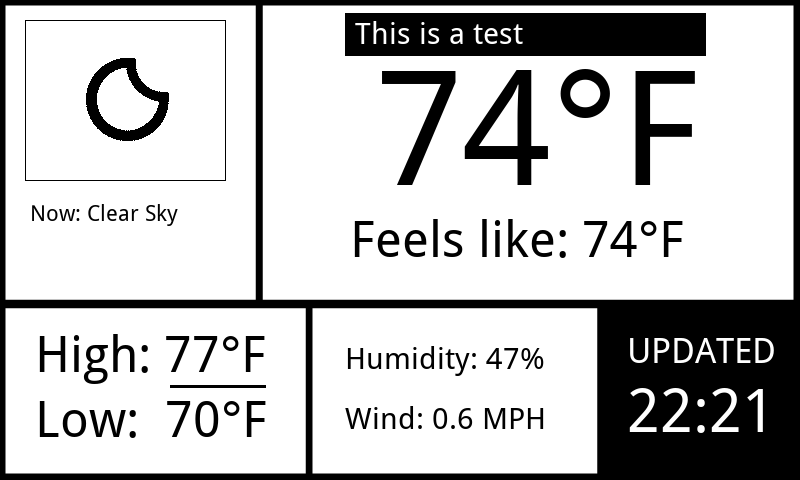
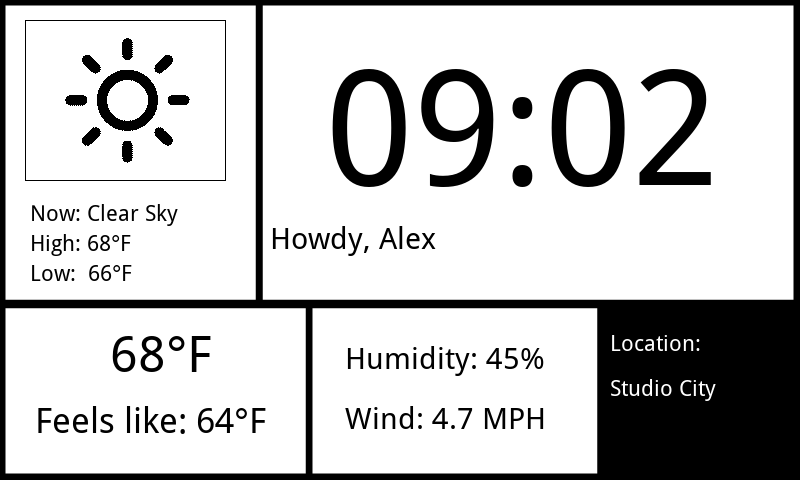
updated look, added specific functionality

diff --git a/server/main.py b/server/main.py
@@ -6,16 +6,22 @@ from server import MyServer
 import time
 import threading
 import os
+import pygame
 from datetime import datetime
 from MyWeather import MyWeather
 from PIL import Image, ImageDraw, ImageFont
 
-newOutput = False
 output = ""
 myServer = MyServer(sys.argv[1], sys.argv[2])
 
 def applicationStart():
+    pygame.init()
+    #screen = pygame.display.set_mode((0, 0),pygame.FULLSCREEN)
+    screen = pygame.display.set_mode((800, 480))
     apiweather = MyWeather()
+    pasttime = datetime.now().strftime("%H:%M")
+    string_current_time = datetime.now().strftime("%H:%M")
+    first = True
 
     picdir = os.path.join(os.path.dirname(os.path.realpath(__file__)), 'pic')
     icondir = os.path.join(picdir, 'icon')
@@ -36,11 +42,15 @@ def applicationStart():
 
     while(True):
         error_connect = True
-        while error_connect:
+        while error_connect == True:
             try:
-                print('Attempting to connect to OWM.')
-                response = apiweather.getWeatherData()
-                print('Connection to OWM successful.')
+                if(pasttime != string_current_time or first == True):
+                    print('Attempting to connect to OWM.')
+                    response = apiweather.getWeatherData()
+                    print('Connection to OWM successful.')
+                    pasttime = string_current_time
+                    first = False
+                    print(response.json())
                 error_connect = False
             except:
                 print('Connection error.')
@@ -49,10 +59,8 @@ def applicationStart():
         error = None
         while error == None:
             if response.status_code == 200:
-                print('Connection to Open Weather successful.')
                 # get data in json format
                 data = response.json()
-                print(data)
                 
                 # get current dict block
                 current = data['main']
@@ -73,7 +81,7 @@ def applicationStart():
                 temp_min = current['temp_min']
                     
                 #TODO add location based from api response
-                string_location = "CITY"
+                string_location_city = data['name']
                 string_temp_current = format(current_temp, '.0f') + u'\N{DEGREE SIGN}F'
                 string_feels_like = 'Feels like: ' + format(feels_like, '.0f') +  u'\N{DEGREE SIGN}F'
                 string_humidity = 'Humidity: ' + str(humidity) + '%'
@@ -81,7 +89,7 @@ def applicationStart():
                 string_report = 'Now: ' + report.title()
                 string_temp_max = 'High: ' + format(temp_max, '>.0f') + u'\N{DEGREE SIGN}F'
                 string_temp_min = 'Low:  ' + format(temp_min, '>.0f') + u'\N{DEGREE SIGN}F'
-
+                string_current_time = datetime.now().strftime("%H:%M")
                 error = False
             else:
                 print(response)
@@ -102,55 +110,38 @@ def applicationStart():
         draw.rectangle((25, 20, 225, 180), outline=black)
         ## Draw text
         draw.text((30, 200), string_report, font=font22, fill=black)
+        draw.text((30, 230), string_temp_max, font=font22, fill=black)
+        draw.text((30, 260), string_temp_min, font=font22, fill=black)
         # Draw top right box
-        draw.text((375, 35), string_temp_current, font=font160, fill=black)
-        draw.text((350, 210), string_feels_like, font=font50, fill=black)
+        global output
+        draw.text((325, 35), string_current_time, font=font160, fill=black)
+        draw.text((270, 220), output, font=font30, fill=black)
         # Draw bottom left box
-        draw.text((35, 325), string_temp_max, font=font50, fill=black)
-        draw.rectangle((170, 385, 265, 387), fill=black)
-        draw.text((35, 390), string_temp_min, font=font50, fill=black)
+        draw.text((110, 325), string_temp_current, font=font50, fill=black)
+        draw.text((35, 400), string_feels_like, font=font35, fill=black)
         # Draw bottom middle box
         draw.text((345, 340), string_humidity, font=font30, fill=black)
         draw.text((345, 400), string_wind, font=font30, fill=black)
         # Draw bottom right box
-        draw.text((627, 330), 'UPDATED', font=font35, fill=white)
-        current_time = datetime.now().strftime('%H:%M')
-        draw.text((627, 375), current_time, font = font60, fill=white)
-
-        ## Add Message
-        global output
-        global newOutput
-        global myServer
-
-        if(newOutput):
-            myServer.setNewOutput(False)
-            newOutput = False
-            draw.rectangle((345, 13, 705, 55), fill =black)
-            draw.text((355, 15), output, font=font30, fill=white)
+        draw.text((610, 330), 'Location: ', font=font22, fill=white)
+        draw.text((610, 375), string_location_city, font = font22, fill=white)
         
         # Save the image for display as PNG
         screen_output_file = os.path.join(picdir, 'screen_output.png')
         template.save(screen_output_file)
         # Close the template file
         template.close()
-
-        print('Writing to screen.')
-        # Open the template
-        with Image.open(os.path.join(picdir, screen_output_file)) as screen_output_file:
-            # Initialize the drawing context with template as background
-            screen_output_file.show()
-            # Sleep
-            print('Sleeping for ' + str(60) +'.')
-            time.sleep(60)
+        image0 = pygame.image.load(os.path.join(picdir, 'screen_output.png'))
+        screen.fill((0,0,0))
+        screen.blit(image0,(0,0))
+        pygame.display.update()
 
 def serverStart():
     global output
-    global newOutput
     global myServer
     
     myServer.run()
     output = myServer.getOutput()
-    newOutput = myServer.getNewOutput()
     serverStart()
 
 thread = threading.Thread(target = serverStart)
